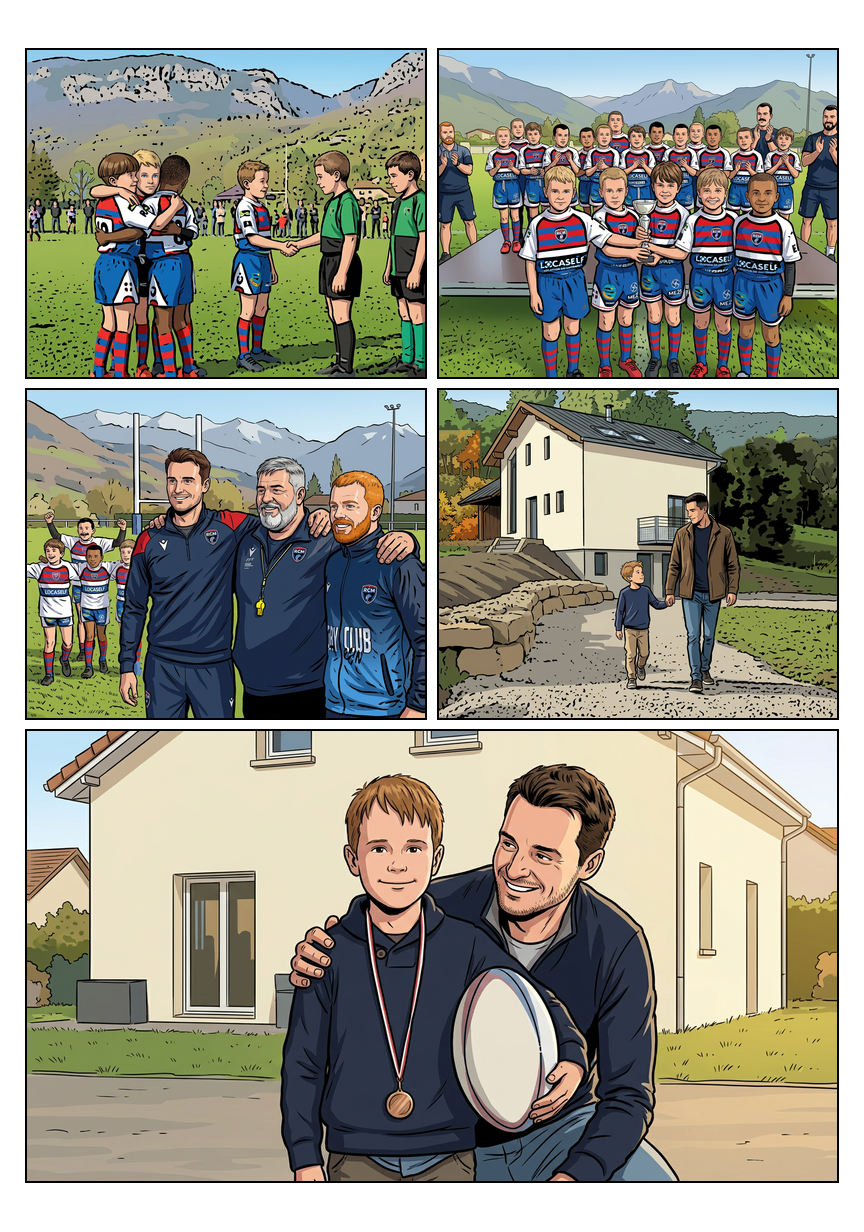
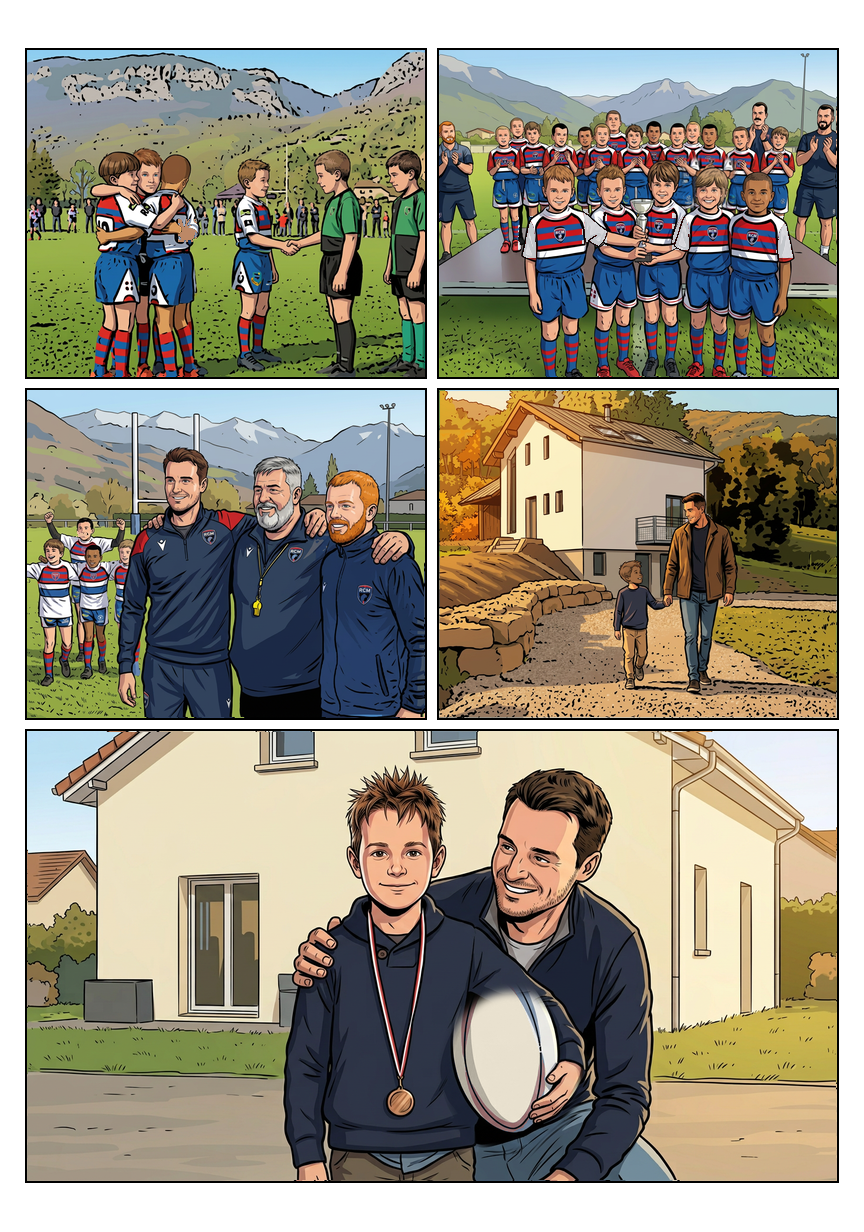
Revue couverture : reprises de premiere passe de la planche 30 (lot AH)

diff --git a/Planches-dessin/SUIVI-STYLE.md b/Planches-dessin/SUIVI-STYLE.md
@@ -2,7 +2,7 @@
 
 **La couverture `00-couverture-marvel.png` est désormais la seule référence de style et d’identité.** La décision utilisateur remplace la priorité V2 décrite dans l’historique ci-dessous. La couverture reste inchangée.
 
-Suivi actuel : [`validation/REVUE-COUVERTURE.md`](validation/REVUE-COUVERTURE.md) et son manifeste JSON : 153 vignettes inventoriées, 147 premières reprises, 1 contrôle sans retouche, 0 correction partielle, 5 autres contrôles individuels à faire, aucune validation définitive. Les anciennes approbations ne valent pas conformité au nouveau référentiel. La prise de 18/4 est reprise au lot U ; les raccords de 19/1 sont nettoyés au lot W, puis les cinq cases de 20 reprises au lot X. Planche 21 reprise au lot Y : souvenir mental de Flavien, gestes de réconciliation, visage clair d’Ayden isolé pour éviter sa confusion avec Nolann mat, et geste de Julien sur l’épaule de Flavien. Planche 22 reprise au lot Z : retour du printemps en manches courtes (suppression des sous-pulls d’hiver de 22-1), vestes marine des coachs (22-2 et 22-4), prise de parole de Léon/Lyssandro/Nolann (22-3) et clin d’œil complice de Milo (22-5). Planche 23 reprise au lot AA : quatre bandes horizontales (passe en ligne, défense alignée autour d’Ayden, plaquage bas et soutien autour de Lyssandro, regard de Flavien/Julien/Kilian en tenues marine). Planche 24 reprise au lot AB : cheveux châtain clair d’Ayden au portail de l’école (24-1), visage enfantin serein de Léon (24-2), et échanges père-fils entre Flavien et Léon à Saint-Sulpice (24-3 à 24-5). Planche 25 reprise au lot AC : panorama des équipes du tournoi final avec Flavien/Julien/Kilian en bleu marine (25-1), victoires contre Chambéry jaune/noir (25-2) et Albertville rouge/blanc avec plaquage bas de Nolann (25-3), pause eau des cinq copains avec les trois coachs (25-4) et entrée de Rumilly rouge/noir en manches courtes (25-5). Planche 26 reprise au lot AD : regroupement des cinq défenseurs du RCM et ailier de Rumilly démarqué debout en coin (26-1), essai en coin de Rumilly avec ballon unique (26-2), sortie tête basse de Nolann/Milo/Ayden sans halos aux oreilles ni textes parasites (26-3), et débrief avec Flavien/Julien/Kilian en bleu marine et prise de parole de Léon (26-4 à 26-6). Planche 27 reprise au lot AE : plaquage bas aux cuisses d’Ayden et défense en ligne (27-1), essai de Lyssandro soutenu par Ayden/Nolann/Léon (27-2), annonce au micro (27-3), face-à-face contre Montmélian (27-4) et cercle des cinq copains en tenues nettoyées (27-5). Planche 28 reprise au lot AF : essai d’égalisation de Nolann bras nus sur passe d’Ayden (28-1), montée défensive en ligne des cinq joueurs (28-2), plaquage bas de Lyssandro et mur défensif en manches courtes (28-3), plaquage en touche de Milo et Nolann (28-4), pénalité jouée par Ayden devant Julien/Kilian/Flavien en bleu marine (28-5) et passe tendue d’Ayden vers Léon avec Milo et Nolann en soutien sans manches longues ni textes parasites (28-6). Planche 29 reprise au lot AG : percée de Léon au centre (29-1), gros plan sur le sourire confiant de Léon (29-2), passe collective de Léon relayée par Lyssandro vers Milo avec Nolann en soutien (29-3) et essai de la victoire de Milo sous le coup de sifflet de l’arbitre (29-4). Prochaine planche : 30. Réserves transversales sur contacts de plaquage, âge/traits sous bonnets et conformité des motifs/écussons/sponsors des tenues. Aucune bulle ni texte de dialogue ajouté.
+Suivi actuel : [`validation/REVUE-COUVERTURE.md`](validation/REVUE-COUVERTURE.md) et son manifeste JSON : 153 vignettes inventoriées, 152 premières reprises, 1 contrôle sans retouche, 0 correction partielle, 0 contrôle individuel restant à faire (relecture transversale globale à conduire avant toute validation finale), aucune validation définitive. Les anciennes approbations ne valent pas conformité au nouveau référentiel. La prise de 18/4 est reprise au lot U ; les raccords de 19/1 sont nettoyés au lot W, puis les cinq cases de 20 reprises au lot X. Planche 21 reprise au lot Y : souvenir mental de Flavien, gestes de réconciliation, visage clair d’Ayden isolé pour éviter sa confusion avec Nolann mat, et geste de Julien sur l’épaule de Flavien. Planche 22 reprise au lot Z : retour du printemps en manches courtes (suppression des sous-pulls d’hiver de 22-1), vestes marine des coachs (22-2 et 22-4), prise de parole de Léon/Lyssandro/Nolann (22-3) et clin d’œil complice de Milo (22-5). Planche 23 reprise au lot AA : quatre bandes horizontales (passe en ligne, défense alignée autour d’Ayden, plaquage bas et soutien autour de Lyssandro, regard de Flavien/Julien/Kilian en tenues marine). Planche 24 reprise au lot AB : cheveux châtain clair d’Ayden au portail de l’école (24-1), visage enfantin serein de Léon (24-2), et échanges père-fils entre Flavien et Léon à Saint-Sulpice (24-3 à 24-5). Planche 25 reprise au lot AC : panorama des équipes du tournoi final avec Flavien/Julien/Kilian en bleu marine (25-1), victoires contre Chambéry jaune/noir (25-2) et Albertville rouge/blanc avec plaquage bas de Nolann (25-3), pause eau des cinq copains avec les trois coachs (25-4) et entrée de Rumilly rouge/noir en manches courtes (25-5). Planche 26 reprise au lot AD : regroupement des cinq défenseurs du RCM et ailier de Rumilly démarqué debout en coin (26-1), essai en coin de Rumilly avec ballon unique (26-2), sortie tête basse de Nolann/Milo/Ayden sans halos aux oreilles ni textes parasites (26-3), et débrief avec Flavien/Julien/Kilian en bleu marine et prise de parole de Léon (26-4 à 26-6). Planche 27 reprise au lot AE : plaquage bas aux cuisses d’Ayden et défense en ligne (27-1), essai de Lyssandro soutenu par Ayden/Nolann/Léon (27-2), annonce au micro (27-3), face-à-face contre Montmélian (27-4) et cercle des cinq copains en tenues nettoyées (27-5). Planche 28 reprise au lot AF : essai d’égalisation de Nolann bras nus sur passe d’Ayden (28-1), montée défensive en ligne des cinq joueurs (28-2), plaquage bas de Lyssandro et mur défensif en manches courtes (28-3), plaquage en touche de Milo et Nolann (28-4), pénalité jouée par Ayden devant Julien/Kilian/Flavien en bleu marine (28-5) et passe tendue d’Ayden vers Léon avec Milo et Nolann en soutien sans manches longues ni textes parasites (28-6). Planche 29 reprise au lot AG : percée de Léon au centre (29-1), gros plan sur le sourire confiant de Léon (29-2), passe collective de Léon relayée par Lyssandro vers Milo avec Nolann en soutien (29-3) et essai de la victoire de Milo sous le coup de sifflet de l’arbitre (29-4). Planche 30 reprise au lot AH : accolade Milo/Ayden/Nolann et poignée de main de Léon avec Montmélian (30-1), podium et trophée des U8 en tenues du RCM nettoyées (30-2), Flavien/Julien/Kilian bras dessus bras dessous en vestes bleu marine (30-3), retour père-fils à Saint-Sulpice (30-4) et portrait final de Léon en épis châtains avec sa médaille, son ballon ovale crème et son père Flavien (30-5). Relecture transversale globale des 30 planches à conduire. Réserves transversales sur contacts de plaquage, âge/traits sous bonnets et conformité des motifs/écussons/sponsors des tenues. Aucune bulle ni texte de dialogue ajouté.
 
 ---
 

diff --git a/Planches-dessin/validation/REVUE-COUVERTURE.md b/Planches-dessin/validation/REVUE-COUVERTURE.md
@@ -541,3 +541,8 @@ Procédure : identification au scénario → comparaison aux personnages de couv
 | `29-2` | 29 | `[440, 64, 840, 374]` | Corrigée 1re passe (relecture globale à faire) | Gros plan sur le regard et le sourire de Léon : reprise en style couverture du portrait de Léon (cheveux châtains en épis, yeux bruns, sourire confiant tourné vers ses coéquipiers) et des spectateurs d'arrière-plan. |
 | `29-3` | 29 | `[25, 391, 840, 771]` | Corrigée 1re passe (relecture globale à faire) | Action collective décisive (passe de Léon, relais de Lyssandro vers Milo et soutien de Nolann) : reprise complète par assemblage gauche/droite avec Léon fixant les deux défenseurs de Montmélian à gauche, Lyssandro relayant le ballon au centre vers Milo démarqué sur l'aile et Nolann (teint mat, avant-bras nus en manches courtes) en soutien à droite, tous en maillots nettoyés des inscriptions parasites. |
 | `29-4` | 29 | `[25, 788, 840, 1168]` | Corrigée 1re passe (relecture globale à faire) | Essai de la victoire de Milo : reprise complète des quatre personnages au centre avec Milo (frange châtain arrondie, bras nus) plongeant pour aplatir le ballon sur la ligne d'en-but sous le coup de sifflet et le bras levé de l'arbitre, encadré par les deux défenseurs de Montmélian en manches courtes. |
+| `30-1` | 30 | `[28, 51, 424, 376]` | Corrigée 1re passe (relecture globale à faire) | Accolade et poignée de main de fin de match : reprise à gauche de Milo, Ayden (cheveux ramenés du blond au châtain clair) et Nolann (teint mat non noir) tombant dans les bras les uns des autres, et au centre de Léon (cheveux châtains en épis) serrant sportivement la main du capitaine de Montmélian en vert et noir. |
+| `30-2` | 30 | `[440, 51, 836, 376]` | Corrigée 1re passe (relecture globale à faire) | Podium final et trophée des U8 : reprise au premier plan d'Ayden (cheveux châtain clair), Léon, Lyssandro, Milo (frange châtain arrondie) et Nolann (teint mat, avant-bras nus) soulevant la coupe en maillots et shorts du RCM à manches courtes blanches nettoyés des inscriptions parasites (LOCASELF, ME25), devant leurs coéquipiers et éducateurs. |
+| `30-3` | 30 | `[28, 391, 424, 717]` | Corrigée 1re passe (relecture globale à faire) | Fierté des trois éducateurs : reprise en style couverture de Flavien (barbe courte légère, survêtement bleu marine à épaules rouges), Julien (veste bleu marine, sifflet jaune) et Kilian (barbe rousse, veste bleu marine unie nettoyée du panneau bleu clair et du texte RBY CLUB) bras dessus bras dessous devant les enfants. |
+| `30-4` | 30 | `[440, 391, 836, 717]` | Corrigée 1re passe (relecture globale à faire) | Retour à Saint-Sulpice en tenue civile : reprise de Léon (cheveux châtains en épis) et de son père Flavien marchant main dans la main sur le chemin de gravier devant la maison familiale dans la lumière dorée de fin de journée. |
+| `30-5` | 30 | `[28, 732, 836, 1180]` | Corrigée 1re passe (relecture globale à faire) | Image finale de Léon et Flavien : reprise en style couverture du portrait final de Léon (cheveux châtains en épis, regard brun, sourire calme et fier, médaille autour du cou, conservant le ballon ovale crème à liseré rouge/bleu sous le bras) avec son père Flavien (barbe courte légère, sourire fier) posant la main sur son épaule. |
